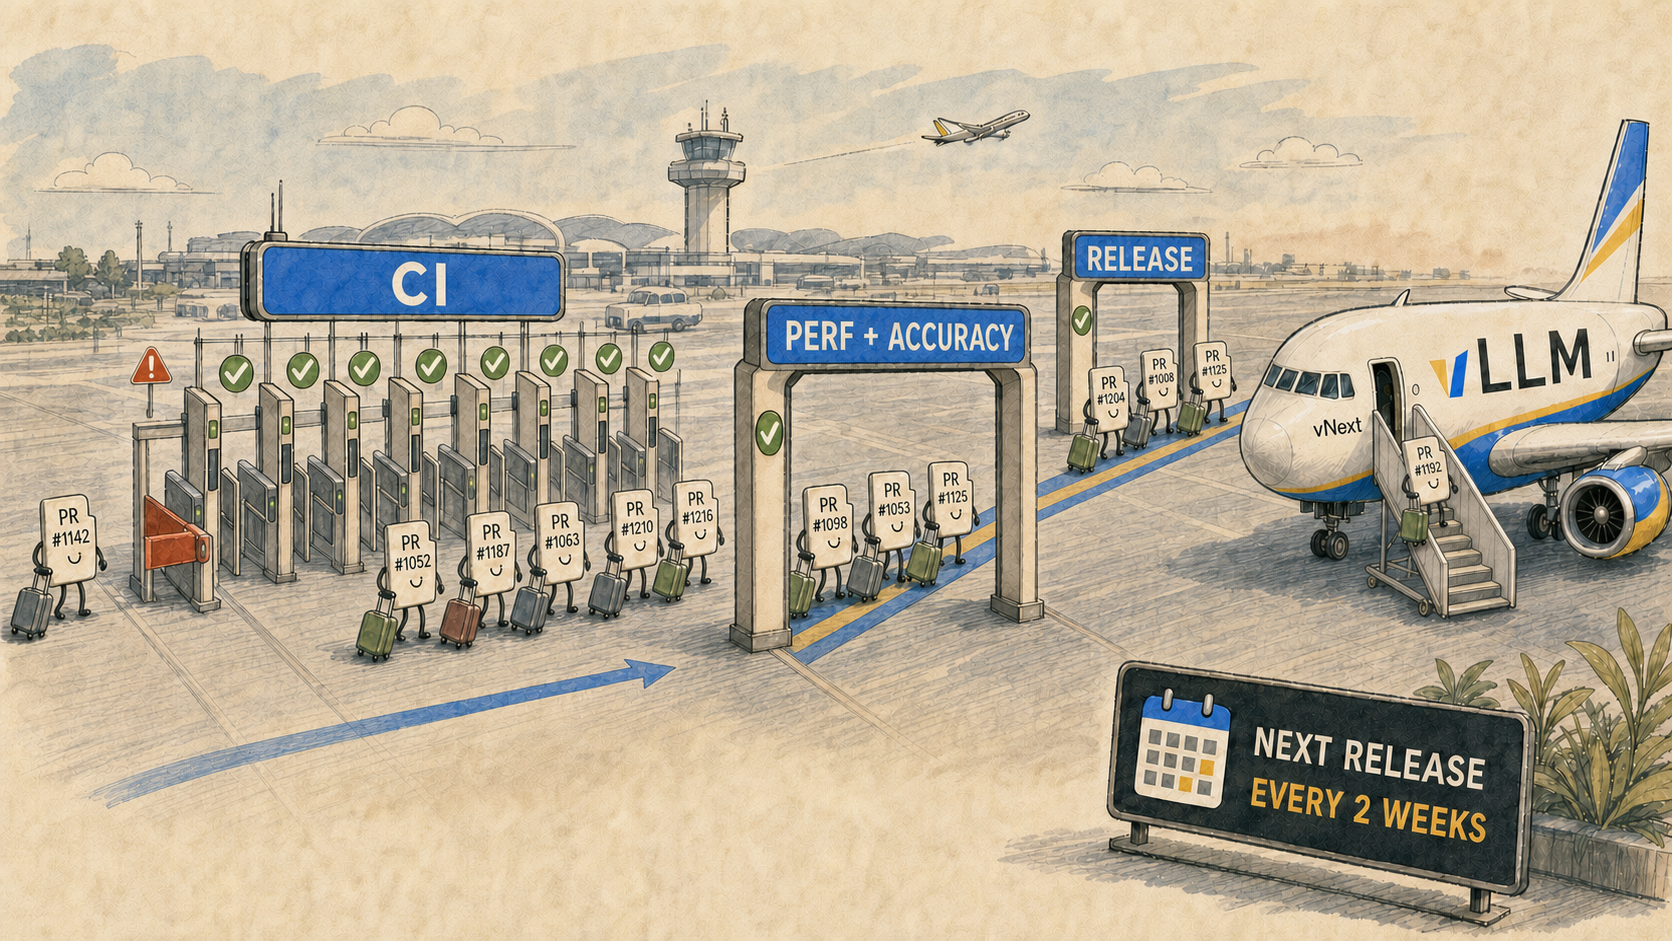
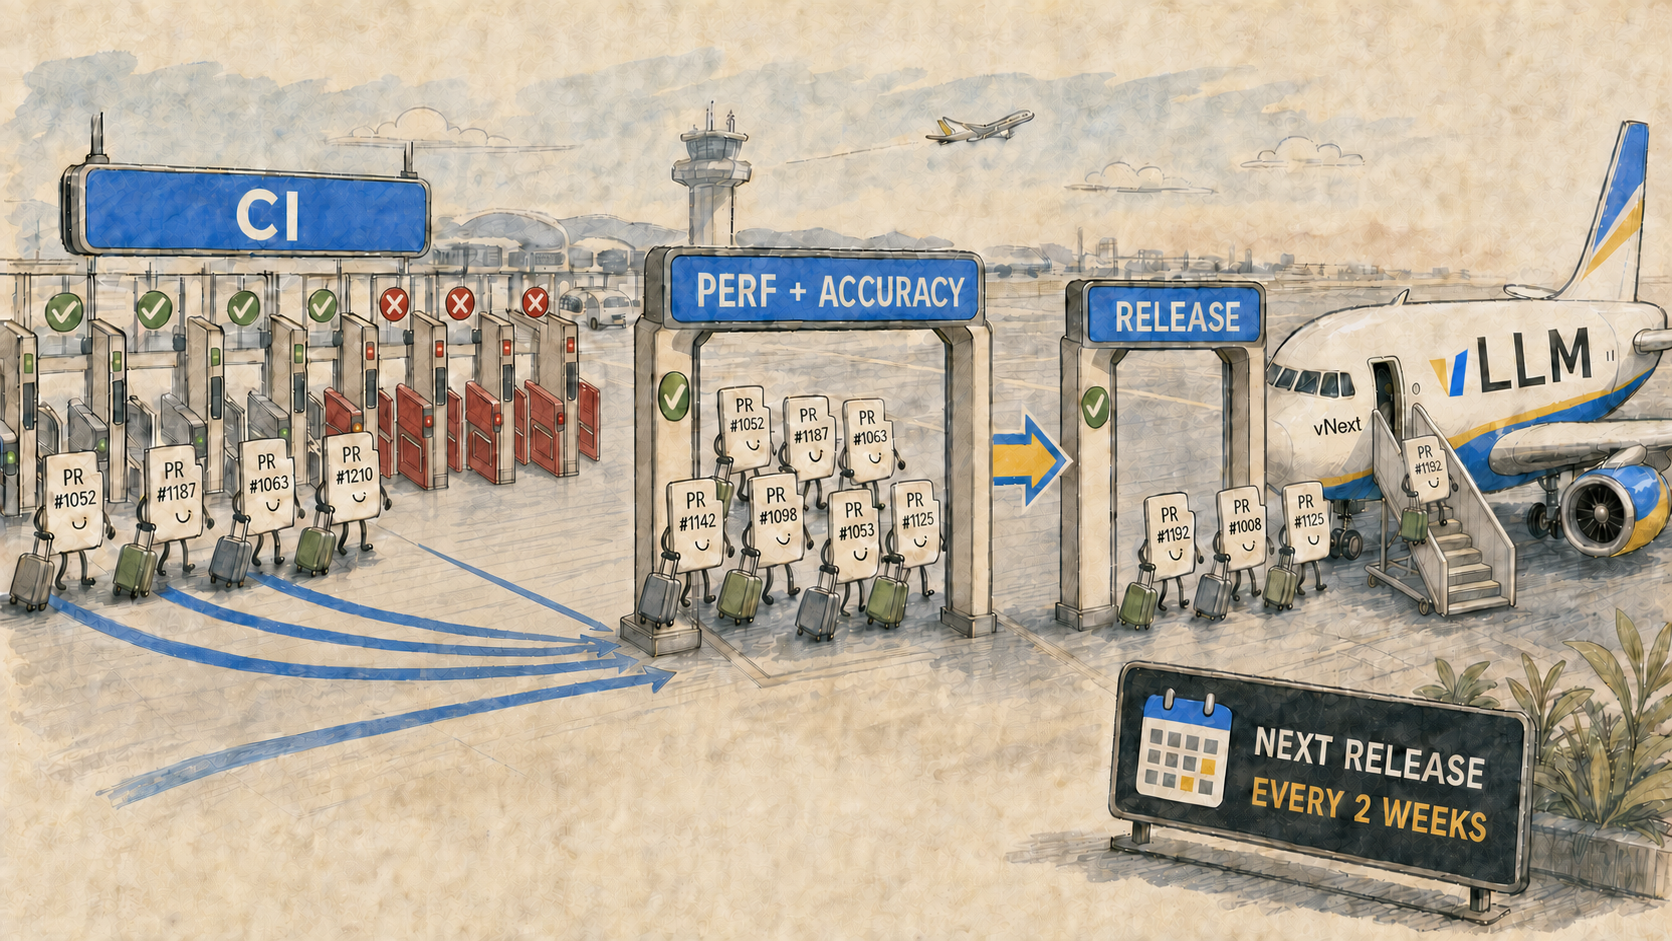
Refresh production quality blog from Notion

diff --git a/_posts/2026-07-16-keeping-vllm-production-quality.md b/_posts/2026-07-16-keeping-vllm-production-quality.md
@@ -13,7 +13,7 @@ tags:
 
 ![vLLM pull requests passing through CI, performance and accuracy evaluation, and release gates](/assets/figures/2026-07-16-keeping-vllm-production-quality/00-production-quality-hero.png)
 
-## Introduction
+## Intro
 
 vLLM is the most widely used open-source LLM inference engine. 86K+ GitHub stars. 5.6M+ monthly pip installs. 2.5M+ monthly image pulls, with support for 1000+ model architectures and 600+ accelerator types.
 
@@ -23,59 +23,33 @@ In June 2026, vLLM merged 1,918 commits into main — 64 a day on average, on pa
 
 Testing vLLM, especially at this pace, gets harder every day. A change that's clean on an H100 might fail to compile on AMD, lose throughput on B200, or nudge a model's outputs just enough on one backend to matter. The surface area that makes vLLM worth using is the exact surface area we have to defend on every commit.
 
-In this post, I want to share how we — the SIG CI working group — keep vLLM releases stable at this pace: what works, what we've learned, and where we still fall short. It will be mostly about high level processes, not deep into the technical. I will have another post on that.
+In this post, I want to share how we keep vLLM releases stable at this pace: what works, what we've learned, and where we still fall short. It will be mostly about high level processes, not deep into the technical. I will have another post on that.
 
 To start, a journey from pull requests to a new version release on vLLM has to go through three layers:
 
 - **CI** — how we catch what breaks loudly, on every PR
+
 - **Performance benchmarking & accuracy evaluation** — how we catch what breaks silently, beyond what CI can cover
+
 - **Release process** — how we evaluate the signals, make the call, then build and ship artifacts to users safely.
 
 ## Layer 1: CI
 
-### Extensive testing on every component of the codebase
+### Extensive unit testing on every component of the codebase
 
-Every PR starts with lightweight GitHub Actions checks—linting, formatting, and similar guardrails. The heavier testing runs on Buildkite, the CI platform that orchestrates our pipelines—but only once a committer marks the PR ready. The GPUs are expensive, so we hold it back from unvetted PRs and from code that's still iterating; there's no point burning accelerator time on a branch that isn't done.
+Every PR starts with lightweight GitHub Actions checks—linting, formatting, and similar guardrails. Once a committer thinks the PR is ready to merge, the heavier unit testing then starts running on Buildkite, our CI platform.
 
-Buildkite assembles each PR’s testing pipeline dynamically: a bootstrap step reads the job definitions, inspects the diff, and schedules only the relevant groups. Change only documentation and you may get a handful of jobs that's relevant to the doc build and quality. Touch the kernels? Buckle up for 100+ parallel runners checking all around.
+Buildkite assembles each PR’s testing pipeline dynamically: a bootstrap step reads the job definitions, inspects the diff, and schedules only the relevant groups. Change only documentation and you may get a handful of jobs. Touch a few important kernels? Buckle up for 100+ jobs launching in parallel.
 
-In total, the vLLM CI suite runs 37 test groups and 266 jobs, covering every major component and feature—from individual kernels to speculative decoding. Groups range from a couple of jobs to a few dozen, and many tests exercise several components at once.
+![vLLM CI flow from GitHub Actions checks to dynamically selected Buildkite jobs](/assets/figures/2026-07-16-keeping-vllm-production-quality/01-dynamic-ci-pipeline.png)
 
-![The vLLM CI test groups and their jobs](/assets/figures/2026-07-16-keeping-vllm-production-quality/01-ci-test-groups.png)
+In total, the vLLM CI suite runs 37 test groups and 266 jobs, covering every major component and feature—from different kernels to speculative decoding to LoRA. Groups range from a couple of jobs to a few dozen, and many tests exercise several components at once. Here is a subset:
 
-### Scaling CI compute with our partners
+![vLLM CI test groups and example jobs](/assets/figures/2026-07-16-keeping-vllm-production-quality/01-ci-test-groups.png)
 
-Each job gets pushed to a runner queue—a pool of machines with a particular hardware profile. The `gpu_1` queue is backed by L4 GPUs; the `b200` queue is backed by a Kubernetes cluster with B200s inside. When a runner becomes available, it claims the next job in the queue, runs it, and reports the result back to Buildkite.
+### Ensuring test environment is consistent
 
-vLLM CI has 58 runner queues spanning across many accelerators.
-
-![vLLM CI runner queues across accelerator types](/assets/figures/2026-07-16-keeping-vllm-production-quality/02-runner-queues.png)
-
-There’s a limit on how much we can spend on compute. Even if we can afford it, managing all of these machines ourselves is a pretty tough job. In other words, CI coverage with this much diversity is possible because of the generous support and collaboration from many of our amazing partners.
-
-However, integration is a big challenge. Every partner has different requirements: some simply hand us access to everything, some prefer to manage their own hardware, some have very tight security guardrails.
-
-**So how do we manage to plug them all into one CI pipeline?**
-
-This is where the **Buildkite agent** comes in. It runs on any provider’s machine and polls Buildkite over HTTPS. Because that connection is outbound only, we never need a way into their network — no VPN, no firewall holes, nothing on their side but the agent. When a job becomes available, it acquires the job, runs it, streams the logs back, posts the final exit status, and asks for more.
-
-There's more than one way to run that agent, and providers pick whatever fits their setup.
-
-The simplest is a standalone machine — our 8xA100 machine or Arm server. The provider installs the agent, points it at a runner queue, and it runs that loop forever.
-
-![A standalone machine running the Buildkite agent](/assets/figures/2026-07-16-keeping-vllm-production-quality/03-standalone-buildkite-agent.png)
-
-For machines in a Kubernetes cluster, the same model works through the [Buildkite Agent Stack for Kubernetes](https://github.com/buildkite/agent-stack-k8s). The controller turns each matching job into a Kubernetes Job with a single Pod, which runs the test and reports back. We always recommend this way because it’s very scalable: you don’t need to install Buildkite agents on every single node, just add them into the cluster.
-
-![Buildkite Agent Stack for Kubernetes workflow](/assets/figures/2026-07-16-keeping-vllm-production-quality/04-kubernetes-buildkite-agent.png)
-
-Either way, onboarding is simple on our end: we create a queue, provide a token, and the provider starts the agent themselves. We don’t need access to the machine. That's what lets vLLM test on more hardware than we could ever afford to own—**a donated fleet worth millions of dollars a year.**
-
-All the different hardware creates a new problem: keeping test results consistent across them
-
-### Ensuring testing environment is consistent
-
-**A test only means something if it runs the same way every time.** Two kinds of drift get in the way: the environment can differ across our many hardware types, and dependencies can change under us over time. A shared container image removes the first; a pinned dependency graph removes the second.
+**A test only means something if it runs the same way every time.** We observe two kinds of drift usually get in the way: the environment can differ across our CI runners, and dependencies can change under us over time. A shared container image removes the first; a pinned dependency graph removes the second.
 
 **Same image, every machine.** With 266 jobs fanning out across dozens of machine types, the fastest way to a flaky, untrustworthy suite is to let each job set up its own slightly different environment. To avoid this, majority of our jobs run inside the same container image, built once at the start of a run and reused everywhere. Our Dockerfile builds in stages, each adding to the one below it.
 
@@ -97,9 +71,39 @@ So vLLM CI locks its dependencies. Pinned requirements files are split by build 
 
 Those lock files are compiled from a short list of top-level dependencies, so they pin every transitive package too. Not just PyTorch stays fixed, but everything it brings with it. We update the locks periodically and run the full CI suite each time; between updates, every dependency in the image stays frozen. Since we started pinning the full graph, dependency-caused breakages have gone from a recurring headache to rare.
 
+### Scaling CI compute across a heterogeneous, multi-provider fleet
+
+Each job gets pushed to a runner queue on Buildkite — a pool of machines with a particular hardware profile. For example, the `gpu_1` queue is backed by individual VMs with L4 GPU; the `b200` queue is backed by a Kubernetes cluster with B200s inside. When a runner becomes available, it claims the next job in the queue, runs it, and reports the result back to Buildkite.
+
+vLLM CI, at the time of writing, has 58 runner queues spanning a wide range of accelerators, and those hardware are provided by multiple partner organizations.
+
+![vLLM CI runner queues across accelerator types](/assets/figures/2026-07-16-keeping-vllm-production-quality/02-runner-queues.png)
+
+There’s a limit on how much we can spend on compute. Even if we can afford it, managing all of these machines ourselves is a pretty tough job. CI coverage with this much diversity is only possible because of the generous support and collaboration from many of our amazing partners.
+
+However, integration is a big challenge. Every partner has different requirements: some simply hand us access to everything, some prefer to manage their own hardware, some have very tight security guardrails.
+
+**So how do we manage to plug them all into one CI pipeline?**
+
+This is where **Buildkite agent** comes in. It runs inside the provider’s environment and connects outbound to Buildkite over HTTPS to receive work. Because Buildkite does not need to initiate connections to the agent, providers do not have to expose inbound ports, configure a VPN, or give us access to their network.
+
+When the agent accepts a job, it runs the command, streams the logs back, and reports the final exit status. A persistent agent then waits for more work, while an ephemeral agent exits after completing its job.
+
+There's more than one way to run that agent, and providers pick whatever fits their setup.
+
+The simplest is a standalone machine — our 8xA100 machine or Arm server. The provider installs the agent, points it at a runner queue, and it runs that loop forever.
+
+![A standalone machine running the Buildkite agent](/assets/figures/2026-07-16-keeping-vllm-production-quality/03-standalone-buildkite-agent.png)
+
+For machines in a Kubernetes cluster, the same model works through the [Buildkite Agent Stack for Kubernetes](https://github.com/buildkite/agent-stack-k8s). The controller turns each matching job into a Kubernetes Job with a single Pod, which runs the test and reports back. We always recommend this way because it’s very scalable: you don’t need to install Buildkite agents on every single node, just add them into the cluster.
+
+![Buildkite Agent Stack for Kubernetes workflow](/assets/figures/2026-07-16-keeping-vllm-production-quality/04-kubernetes-buildkite-agent.png)
+
+Either way, onboarding is simple on our end: we create a queue, provide a token, and the provider starts the agent themselves. We don’t need access to the machine. That's what lets vLLM test on more hardware than we could ever afford to own—**a donated fleet worth millions of dollars a year.**
+
 ### Utilizing hardware is challenging
 
-So far, we’ve focused on getting a single PR’s result correct. Keeping the whole system healthy at this scale is a separate challenge: utilize the hardware efficiently, spotting problems early, and reacting fast. There’s a lot of demand and a hard limit on compute, so we make sure none of it goes to waste.
+There’s a lot of demand and a hard limit on compute, so we need to make sure none of it goes to waste.
 
 **MIG-slice the big GPUs**
 
@@ -113,11 +117,24 @@ For the machines we rent by the hour, leaving them on and idle just wastes money
 
 **Don't rebuild what you can reuse**
 
-The slowest, most expensive parts of CI are building the Docker image and compiling CUDA kernels, so we try hard not to do either more than we have to:
+The slowest, most repetitive, and most expensive parts of CI are:
 
-- **Docker layers**: we apply registry caching and reuse cached layers instead of rebuilding.
-- **Warm-cache machine images**: a nightly job pre-builds machine images with the latest layers already pulled, so a build machine starts with the cache ready instead of empty.
-- **Compiler cache**: we leverage **sccache** so that compiled C++/CUDA outputs are cached in an S3 bucket and reused across builds.
+1. Building the standard Docker image used by whole CI pipeline
+
+    1. Compiling CUDA kernels
+
+    2. Installing all dependencies
+
+2. Downloading model weights from Hugging Face.
+
+so we try not to:
+
+- **Docker layers**: we apply registry caching and reuse cached layers instead of rebuilding. This would include the dependencies.
+
+- **Warm-cache AMI for builder**: we have a nightly job to build the AMI used for our builder machines with the latest layers already pulled, so our builder machine starts as close to main as possible.
+
+- **Compiler cache**: we leverage **sccache **so that compiled C++/CUDA outputs are cached in an S3 bucket and reused across builds. Every builder machines can read from this bucket, but only builder machines used in main branch can write to it.
+
 - **Model weights**: the models we test are huge, so for each of the clusters, we download them once to shared storage and every job reads from there, instead of pulling gigabytes each time.
 
 ### Making CI health visible
@@ -138,21 +155,21 @@ With all the available data and full control of the dashboard, we have so much f
 
 ![The CI dashboard showing main-branch health](/assets/figures/2026-07-16-keeping-vllm-production-quality/08-main-branch-health.png)
 
-Oops
+For the past 3 days, no. And why did jobs take 10 hours!?
 
 ***Which test is broken or flaky, and since when?***
 
 ![The CI dashboard showing test failures over time](/assets/figures/2026-07-16-keeping-vllm-production-quality/09-test-failure-history.png)
 
-This AMD hardware test group started failing since PR #47329 was merged, so we can start from there.
+This AMD hardware test group started failing since PR #47329 was merged.
 
-Basic correctness test failed once so it’s probably flaky…
+Basic correctness test failed once so it’s probably flaky.
 
 ***Is any runner queue congested?***
 
 ![The CI dashboard showing runner-queue congestion](/assets/figures/2026-07-16-keeping-vllm-production-quality/10-runner-queue-congestion.png)
 
-`small_cpu_queue_premerge` runner queue looks pretty congested… Its capacity probably topped out at 5 instances, so let’s raise it.
+`small_cpu_queue_premerge` runner queue looks pretty congested… Its capacity probably maxed out at 5 instances, so let’s raise it.
 
 ***Which job takes longest on CI? What’s its duration trend for past 2 weeks?***
 
@@ -162,7 +179,7 @@ Basic correctness test failed once so it’s probably flaky…
 
 Those are just a few examples of what our dashboard can do. Modern coding agents have made this kind of tooling surprisingly approachable, even without deep front-end expertise.
 
-### Automating the first response
+### Automating failure detection and response
 
 The dashboard helps us see problems. The next step is shortening the time from detection to diagnosis, and of course we have to leverage the powerful AI agents here.
 
@@ -172,15 +189,15 @@ The bot has become essential to catching breakages fast, alongside the community
 
 ![The CI analyzer bot reporting a regression and suggested revert](/assets/figures/2026-07-16-keeping-vllm-production-quality/12-ci-analyzer-bot.png)
 
-### Green, but not the whole story
+### What a green check cannot tell us
 
-Put together, all of this is what lets us trust a green check on a PR: broad test coverage, run across a huge fleet of different accelerators, in consistent environments, and well-monitored. When CI passes, we're confident it significantly reduces merge risk.
+Put together, all of this is what lets us trust a green check on a PR: broad unit test coverage, run across a huge fleet of different accelerators, in consistent environments, and well-monitored. When CI passes, we're confident merge risk is significantly reduced.
 
-But functionally correct isn't the whole story. A change can pass every test and still make a model slower or its output incorrect. To keep CI fast and affordable, we tend to skip a lot of tests end to end and, more importantly, not closely simulate what vLLM users go through every day. That's what the next layer is for.
+But CI doesn’t tell the whole story. A change can pass every test and still make a model slower or its output incorrect. To keep CI fast and affordable, we tend to skip a lot of e2e tests and, more importantly, not closely simulate what vLLM users go through every day. That's what the next layer is for.
 
 ## Layer 2: Performance benchmarking & accuracy evaluation
 
-In May, we shipped `v0.20.0` and within days had to cut two emergency patches, `v0.20.1` and `v0.20.2`. Two problems had slipped through: one broke `gpt-oss` on Blackwell when split across multiple GPUs (tensor parallelism > 1), the other tanked `DeepSeek V4` throughput on GB200.
+In May, we shipped `v0.20.0` and within days had to cut two emergency patches, `v0.20.1` and `v0.20.2`. Two problems had slipped through: one broke `gpt-oss` on Blackwell when split across multiple GPUs (tensor parallelism \> 1), the other tanked `DeepSeek V4` throughput on GB200.
 
 At the time we had no benchmarking pipeline; nothing ran these models end to end on that hardware to confirm they still worked and ran fast before we shipped. So both problems sailed past CI and reached users.
 
@@ -192,19 +209,21 @@ It now provides a lot of signals for our release process and has already caught 
 
 ### Running a matrix of models and accelerators every night
 
-We maintain our pipeline at [https://github.com/vllm-project/perf-eval](https://github.com/vllm-project/perf-eval). Each config file — a recipe — describes one model on one hardware target: the image and server arguments, the accelerator, and the tasks to run.
+We maintain our pipeline at [https://github.com/vllm-project/perf-eval](https://github.com/vllm-project/perf-eval). Each config file describes a workload: how to start vLLM server, which arguments to use, which model to serve, which accelerator, and which tasks to run.
 
-Each workload mainly runs three tasks:
+Generally, each workload mainly runs three tasks:
 
 - Performance benchmark — measuring time-to-first-token (TTFT), time-per-output-token (TPOT), and many other metrics — using `vllm-bench`
+
 - Model accuracy on math and reasoning benchmarks (GSM8K, GPQA, AIME) using `lm-eval`
+
 - Function-calling accuracy via the Berkeley Function-Calling Leaderboard (BFCL)
 
 ![The nightly performance and accuracy evaluation workflow](/assets/figures/2026-07-16-keeping-vllm-production-quality/13-perf-eval-workload.png)
 
-Every night, and for every release candidate, we run the full suite across popular models — DeepSeek V4 Pro/Flash, gpt-oss, Kimi K2.5, MiniMax M2.5 and M3, Qwen3.5, GLM 5.1, Gemma 4, and Nemotron 3 Super — on H200, B200, MI300X, and MI355X. That's 17 model-hardware recipes in total right now, and the list keeps growing.
+Every night, and for every release candidate, we run the full suite across selected models — DeepSeek V4 Pro/Flash, gpt-oss, Kimi K2.5, MiniMax M2.5 and M3, Qwen3.5, GLM 5.1, Gemma 4, and Nemotron 3 Super — on H200, B200, MI300X, and MI355X. That's 17 model-hardware recipes in total right now, and the list keeps growing. We plan to add support for GB200/GB300, PD disaggregation, and more models very soon.
 
-### Is it still fast?
+### Is it always fast?
 
 After every run, the results are ingested into our database. Remember the CI dashboard from earlier? It has perf results too!
 
@@ -220,7 +239,7 @@ The [Compare view](https://ci.vllm.ai/compare) lets us compare two vLLM images h
 
 ![Comparing two vLLM images in the performance dashboard](/assets/figures/2026-07-16-keeping-vllm-production-quality/15-compare-view.png)
 
-### Is it still correct?
+### Is it always correct?
 
 If your vLLM instance is blazing fast but its output is garbage, that speed is worthless. Beyond performance, we make sure the model's answers still hold up.
 
@@ -237,9 +256,13 @@ The [Evaluation dashboard](https://ci.vllm.ai/eval) stores aggregate scores and 
 Since November 2025, we have been maintaining a two-week cadence on vLLM releases. Many projects of our size take a lot longer to ship. Why we keep this cadence:
 
 - **Changes reach users fast.** A new release is never far behind main.
+
 - **It’s predictable.** Users and downstream projects can plan around a steady schedule instead of guessing when the next release lands.
+
 - **Managing features and tracing regressions are easier** when there are 500 commits to bisect rather than a few thousand.
+
 - **Less deadline pressure**. Contributors no longer feel the need to rush their changes in before the train departs. They just catch the next one in two weeks.
+
 - **Cherry-picks stay clean.** A fix from just days ago is usually a simple pick, not a merge-conflict mess.
 
 Every other Monday, we kick off release week. Here's what that looks like:
@@ -252,14 +275,16 @@ On Monday, the release manager reviews the most recent full-CI runs on the `main
 
 We cut `releases/vX.Y.Z` at that exact commit and announce the branch and release window.
 
-### Heavy testing on every candidate
+### Heavy testing on every release candidates
 
 From the branch cut through Wednesday, we review the cherry-pick requests, cherry-pick them into the release branch in batches, and tag the result as the next release candidate.
 
 Every candidate goes through the same three gates:
 
 - Full CI suite
+
 - Performance benchmark suite
+
 - Model accuracy evaluation suite
 
 Each result is tied to a release candidate. When a later candidate changes CI health, performance, or evaluation quality, we can track down which candidate introduced the difference: they are just tens of commits away.
@@ -278,32 +303,49 @@ Once a candidate qualifies, we take that commit and start building all artifacts
 
 At the time of writing, we are shipping these for every release:
 
-- 6 Python wheels:
-  - CUDA 12.9 x86_64/arm64
-  - CUDA 13.0 x86_64/arm64
-  - CPU x86_64/arm64
-- 11 Docker images:
-  - CUDA 12.9, x86_64/arm64, Ubuntu 22.04/24.04
-  - CUDA 13.0, x86_64/arm64, Ubuntu 22.04/24.04
-  - ROCm
-  - CPU x86_64/arm64
+- **7 Python wheels**:
+
+    - CUDA 12.9 x86_64/arm64
+
+    - CUDA 13.0 x86_64/arm64
+
+    - CPU x86_64/arm64
+
+    - ROCm
+
+- **11 Docker images**:
+
+    - CUDA 12.9, x86_64/arm64, Ubuntu 22.04/24.04
+
+    - CUDA 13.0, x86_64/arm64, Ubuntu 22.04/24.04
+
+    - ROCm
+
+    - CPU x86_64/arm64
 
 ## What's next
 
 I've been bragging a lot about what we've built — but honestly, we still have a lot to do on our roadmap. Some of the big ones:
 
 - **Automatic test selection.** Today we pick which tests run for each PR from a hand-maintained mapping, and it goes stale fast. We want this to be automatic, and we're trying a few angles: LLM-based selection, static analysis, dynamic analysis, and labeling source paths to match them to tests.
+
 - **Faster time-to-signal.** CI takes 1–2 hours on average to return a verdict; we'd love to get that under 30 minutes.
+
 - **Leaner unit tests.** A lot of our "unit" tests actually spin up a full vLLM server and fire real requests at it, which slows down CI a lot.
+
 - **Better exit-code handling.** Some jobs still return the wrong exit code when they fail, like reporting an infra problem as a failed test, making it hard to triage failures and alert/retry jobs.
+
 - **Faster flaky-test detection and quarantine.** We have plenty of flaky tests — from infra, upstream packages, or tests that just aren't written safely — and we'd like to catch and quarantine them automatically.
+
 - **Automatic detection for infra issues.** Spot a bad machine quickly and pull it out of the CI fleet on its own, before it fails a pile of jobs.
-- **Better alerting**. We have some basic alerts for congested runner queues and regressions. It’s always nice to have more: high disk pressure on CI runners, jobs suddenly failing far faster than usual, broken dependency install, etc.
+
+- **Better alerting**. We have some basic alerts for congested runner queues and regressions. It’s always nice to have more: high disk pressure on CI runners, jobs suddenly failing far faster than usual, broken dependency install, etc..
+
 - **Code-coverage reporting.** Our coverage is broad, but we can't yet say for sure that every corner of the codebase is actually exercised.
 
 Working on CI is actually a lot more interesting than most people think. This post only covers the high-level process of how we keep vLLM releases stable; there are plenty of fun technical details I didn't get to cover — maybe in another post :)
 
-If any of these problems sound like your kind of fun, or you think we're doing something wrong, come say hi in `#sig-ci` on the vLLM Slack. And if you'd like to work on this full-time, [we're hiring](https://jobs.ashbyhq.com/Inferact/3dee433c-7121-458c-8408-c193b6326ffb) at Inferact!
+If any of these problems sound like your kind of fun, or you think we're doing something wrong, come say hi in `#sig-ci` on the vLLM Slack. And if you'd like to work on this full-time, [we're hiring](https://jobs.ashbyhq.com/Inferact/3dee433c-7121-458c-8408-c193b6326ffb) at Inferact\~!
 
 ## Acknowledgements
 
@@ -312,22 +354,35 @@ None of this is a solo effort. vLLM CI is built and kept alive by the whole comm
 I'm deeply grateful to everyone who helped with CI along the way (listed alphabetically):
 
 - **Amazon**: Junpu Fan
+
 - **AMD**: Alexei Ivanov, Andreas Karatzas, Kenny Roche, Micah Williamson
+
 - **Arm**: Fadi Arafeh, Ioana Ghiban
+
 - **EmbeddedLLM**: Tun Jian Tan
+
 - **Google**: Brittany Rockwell, Jincheng Chen, Ming Huang, Qiliang Cui, Yarong Mu, Yiwei Wang
+
 - **HuggingFace**: Harry Mellor
+
 - **Inferact**: Harry Chen, Jiangyun Zhu, Kaichao You, Nick Hill, Roger Wang, Simon Mo, Zhewen Li
+
 - **Intel**: Chendi Xue, Jiang Li, Kunshang Ji, Wenjun Liu
+
 - **Meta**: Andrey Talman, Charlotte Qi, Eli Uriegas, Huamin Li, Huy Do, Orion Reblitz-Richardson, Reza Barazesh
+
 - **NVIDIA**: Alec Flowers, Benjamin Chislett, Mathew Wicks, Pen Chung Li, Stefano Castagnetta, Xin Li
+
 - **Red Hat**: Andy Linfoot, Avinash Singh, Doug Smith, Edward Quarm, Flora Feng, Lucas Wilkinson, Michael Goin, Nicolo Lucchesi, Robert Shaw, Russell Bryant, Tyler Michael Smith, Wentao Ye
+
 - **Reflection AI**: Amr Mahdi
+
 - **Independent contributors**: Cyrus Leung (DarkLight1337), Yuqi Wang (noooop)
 
-and the amazing partners:
+the amazing partners:
 
 - **AWS, Crusoe, LambdaLabs, Nebius, NVIDIA, Roblox, RunPod** for sponsoring us with compute credits
-- **Buildkite** for letting us run CI free of charge on their platform &lt;3
 
-Thank you for supporting open source inference!
+- **Buildkite** for letting us run CI free of charge on their platform \<3
+
+and finally, two mentors who taught me a lot about CI during my time at Anyscale (Ray): **Lonnie Liu** (OpenAI) and **Cuong Nguyen** (NVIDIA).